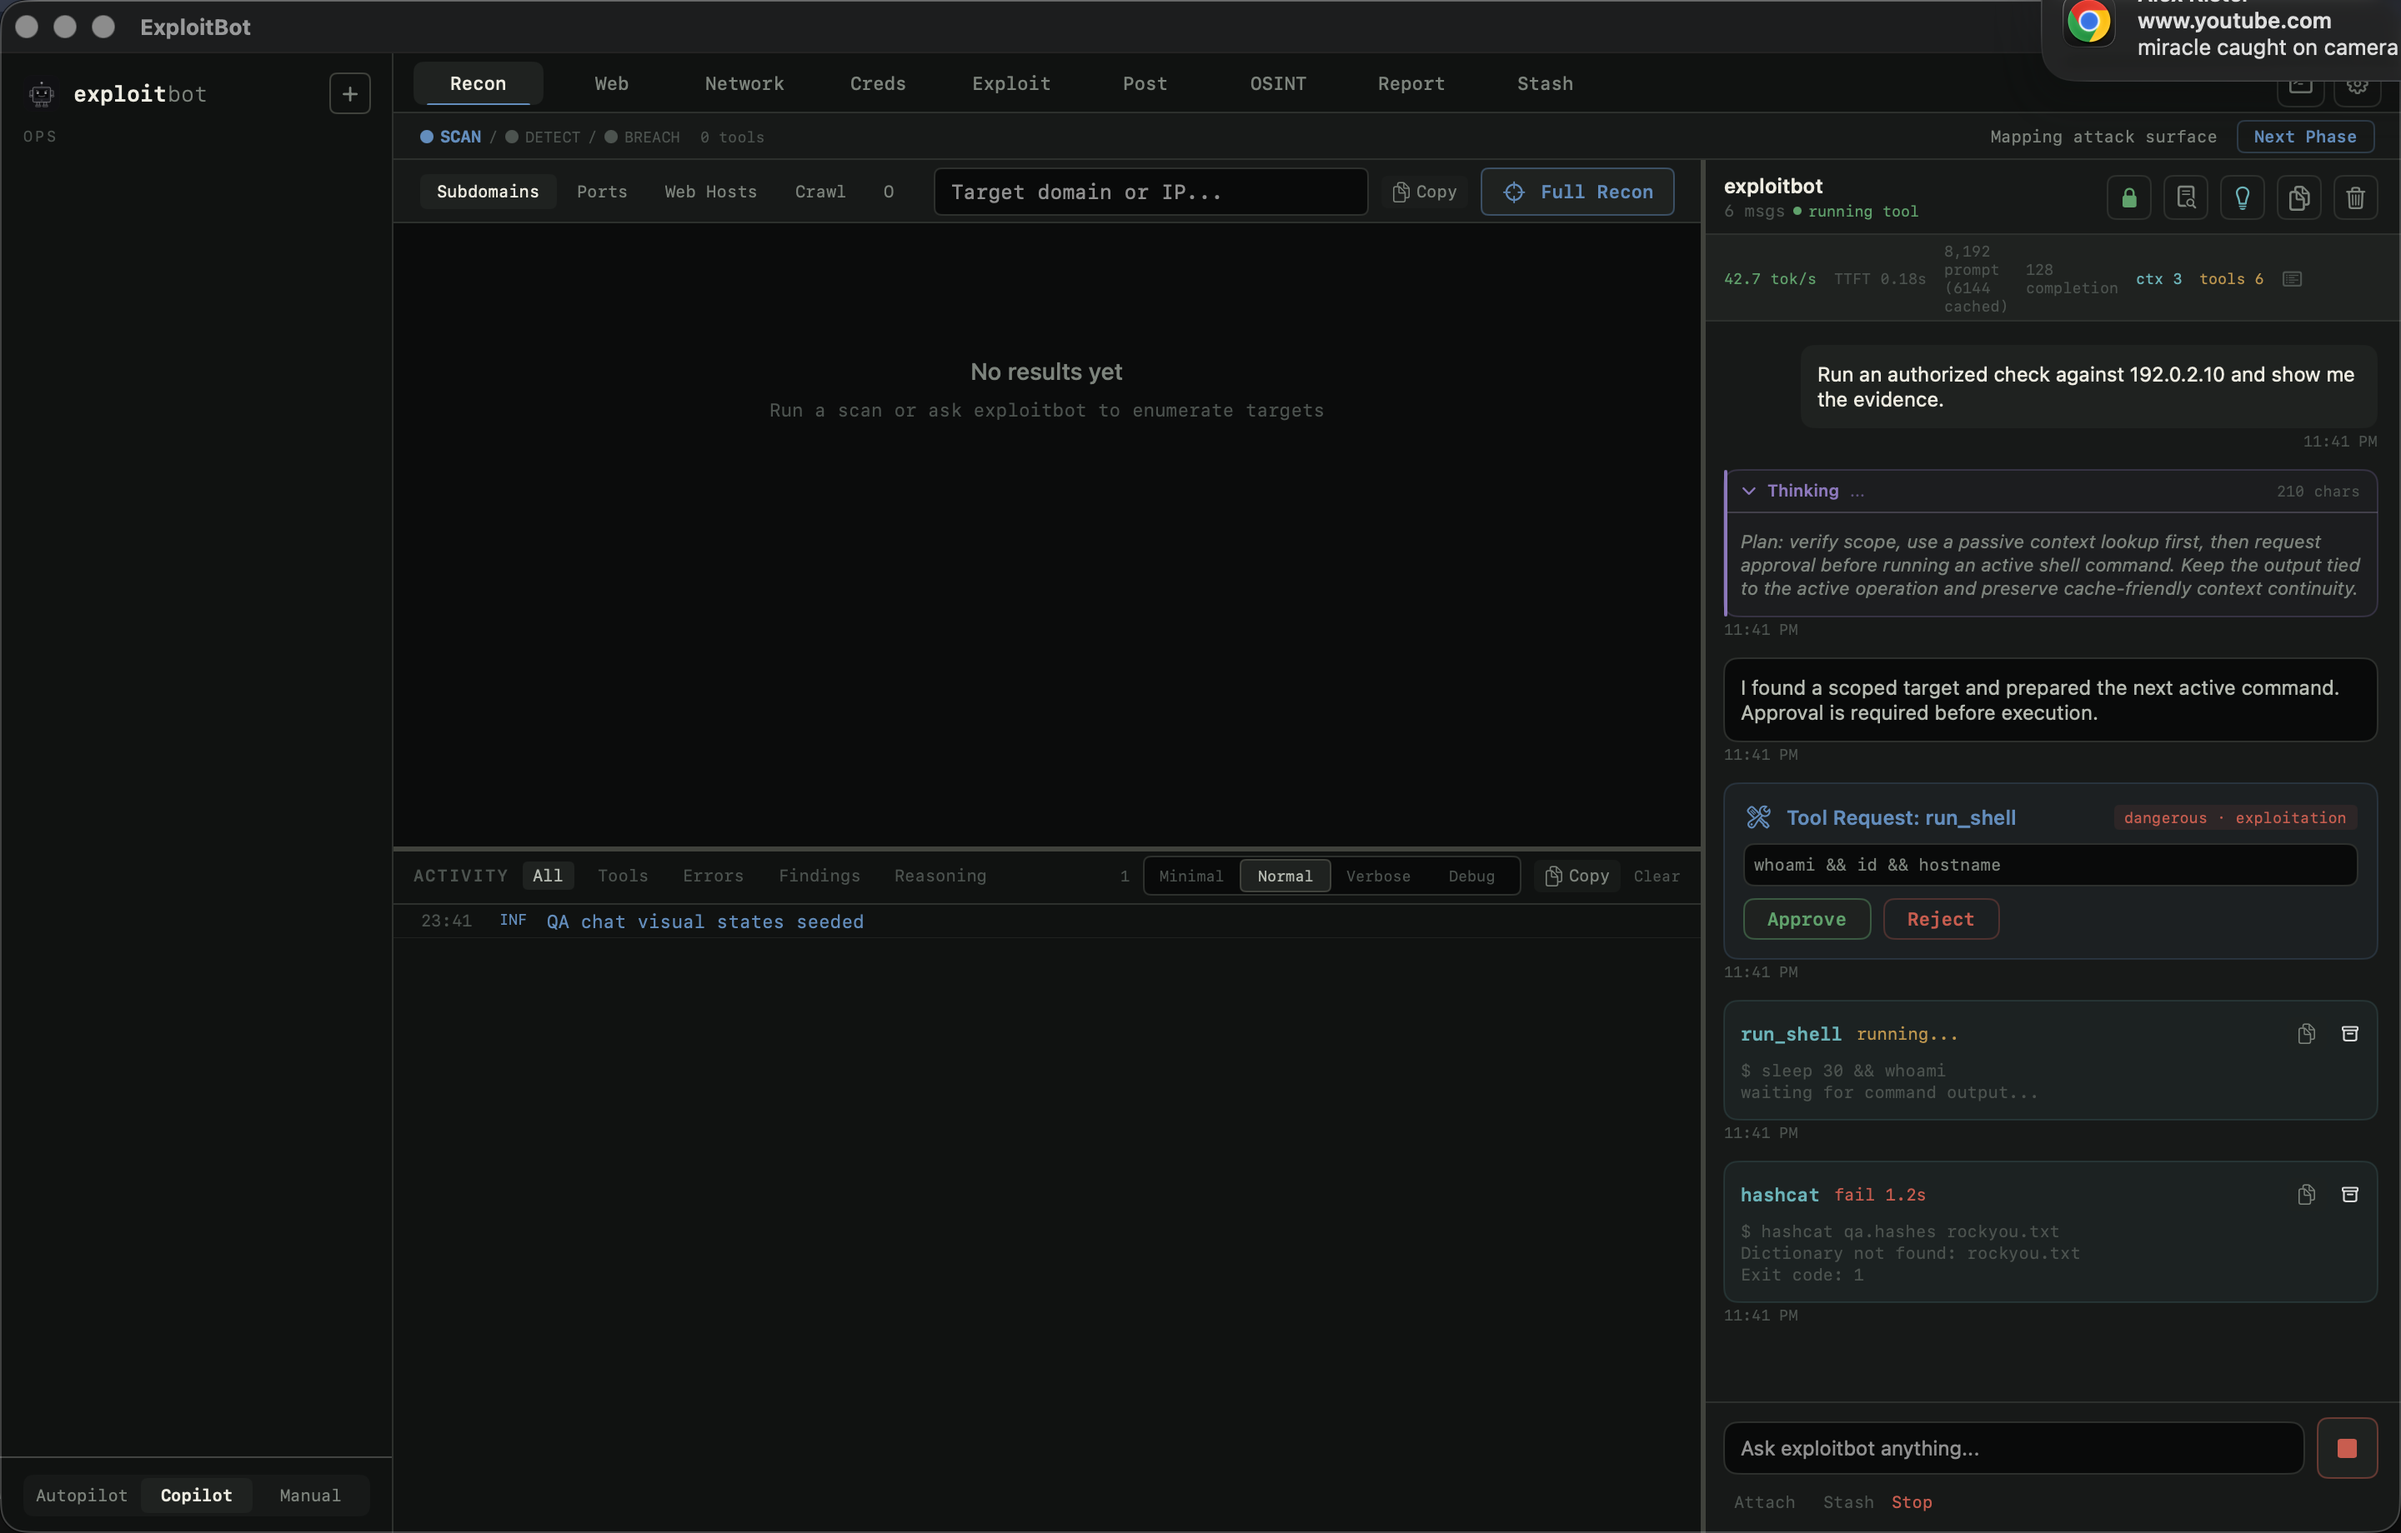
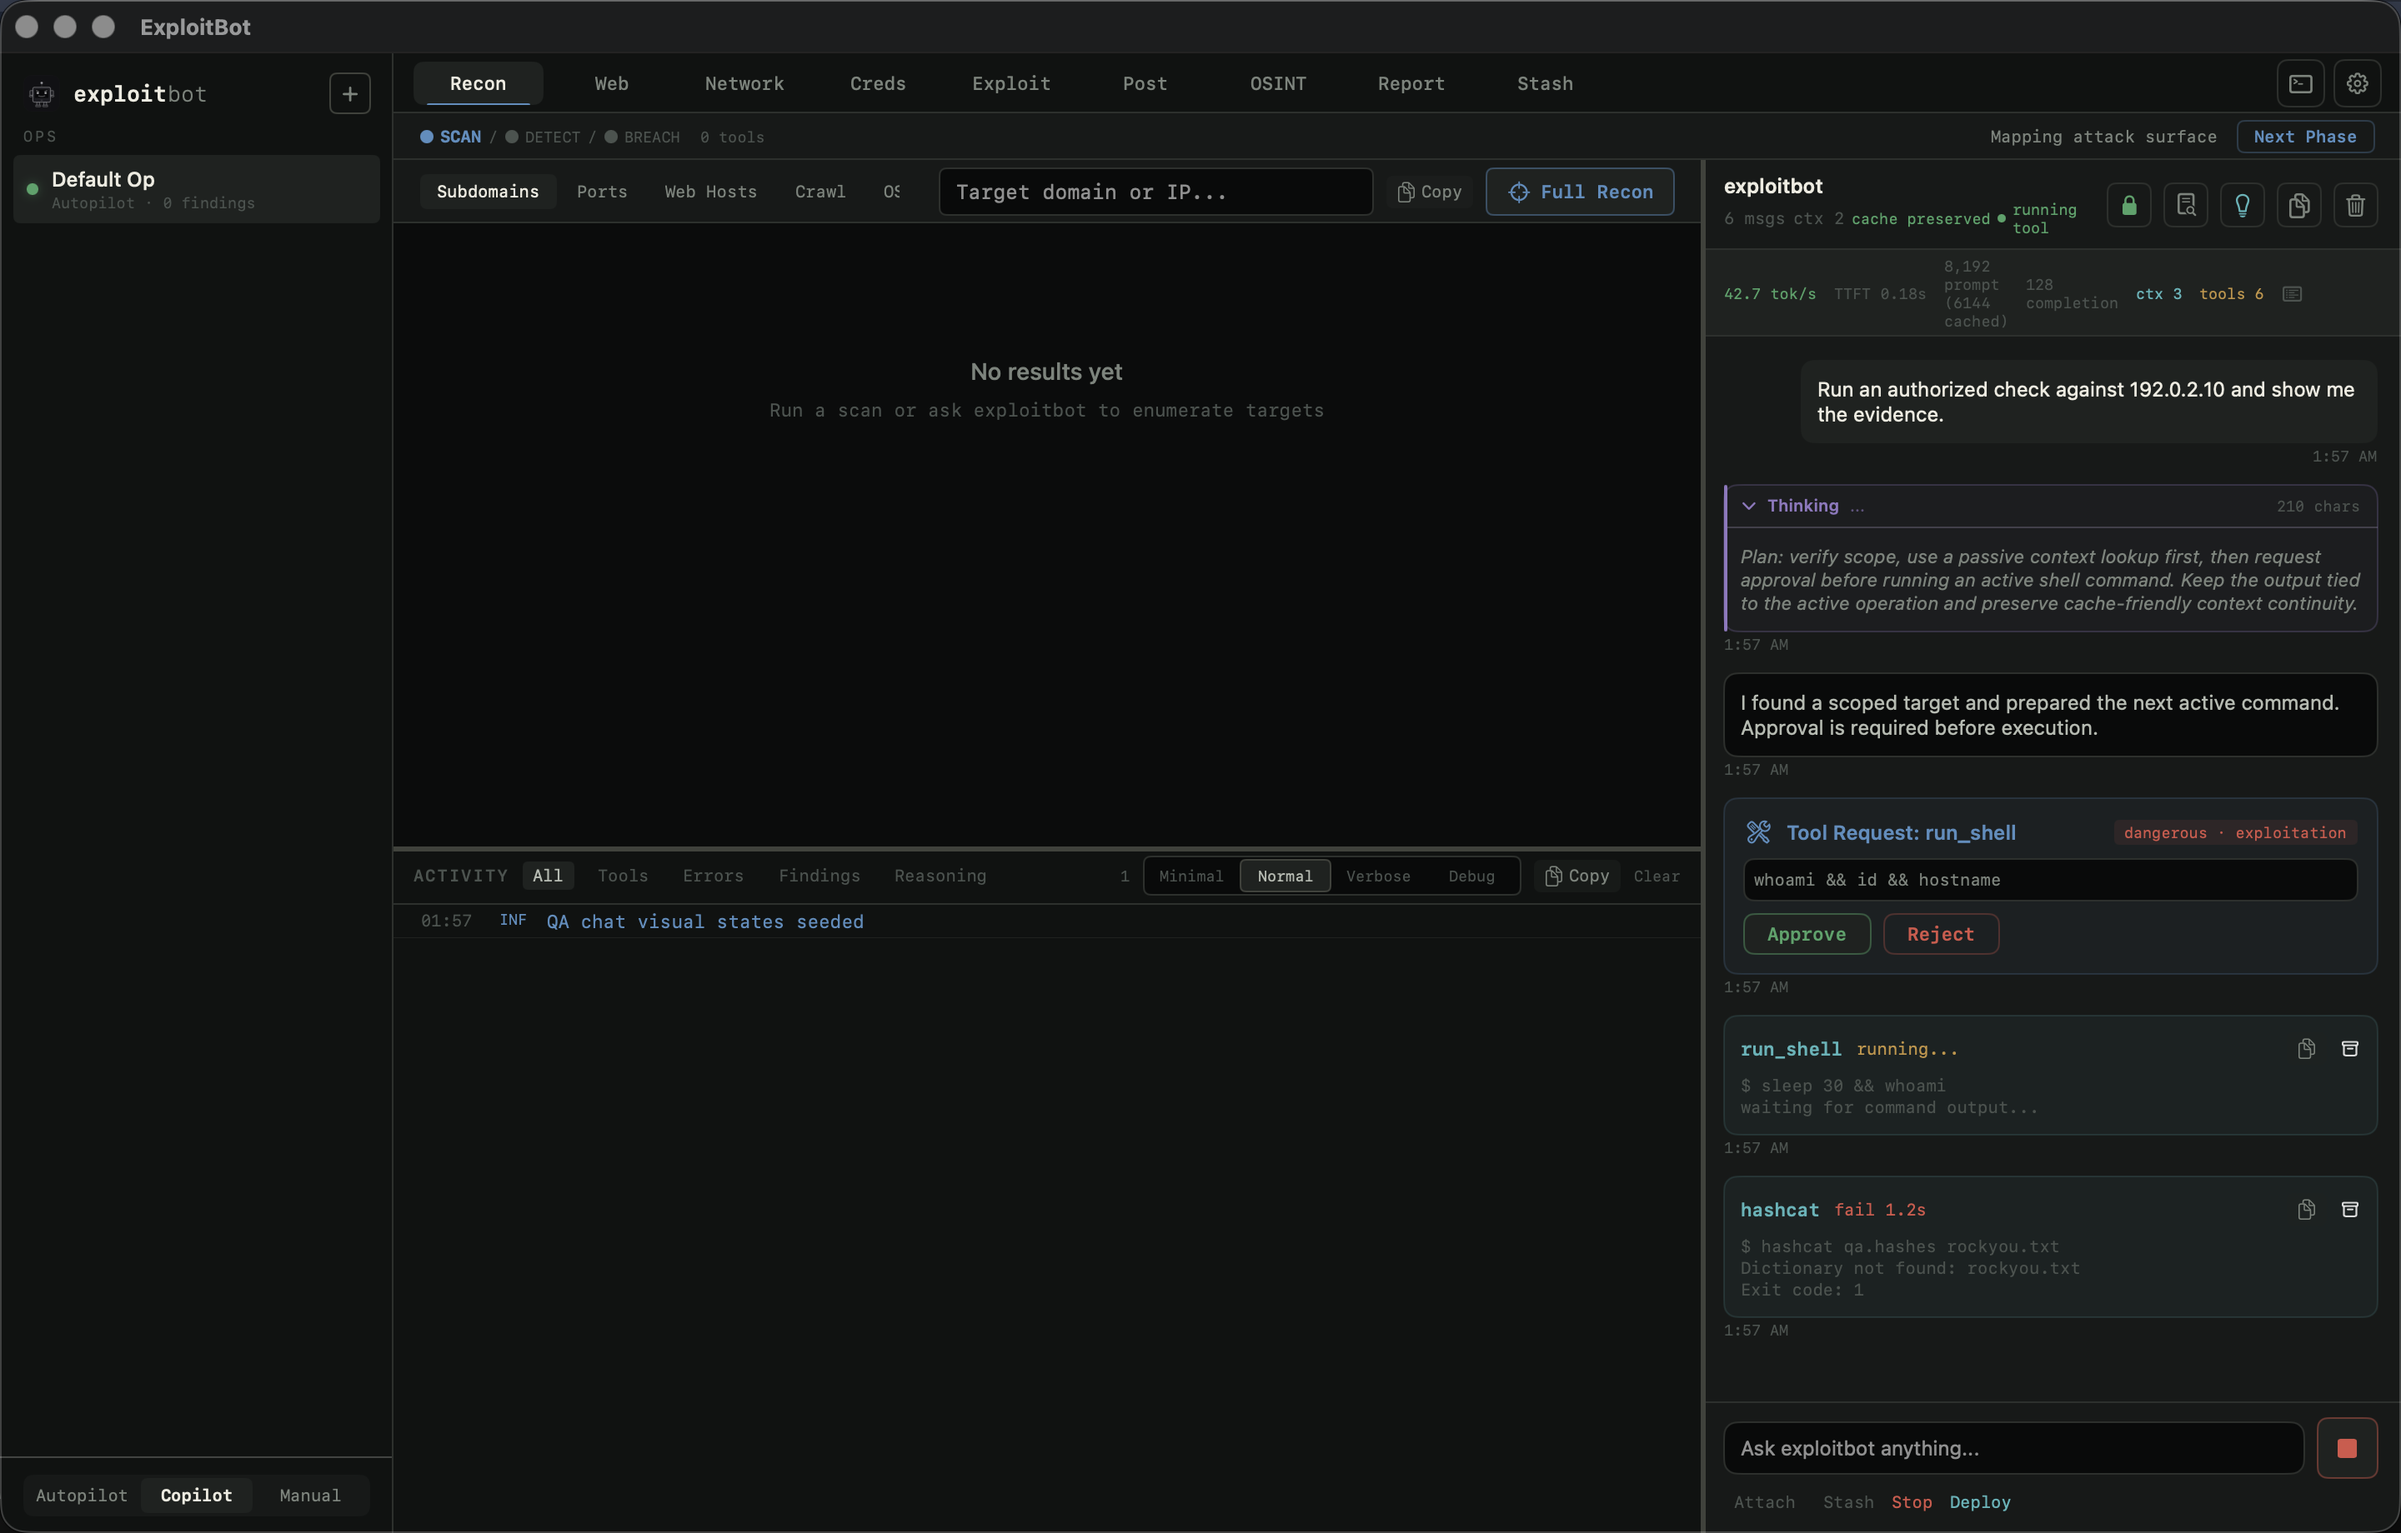
app: show context cache status

diff --git a/ExploitBot/Sources/ExploitBot/Models/AppState.swift b/ExploitBot/Sources/ExploitBot/Models/AppState.swift
@@ -406,8 +406,18 @@ svc-backup:CorrectHorseBatteryStaple
             state.chatService.lastContextSummary = "## Dynamic Context Catalogue\nPolicy: selected 3 of 12 indexed items for phase Scan, tab recon.\nSelected snippets:\n- [asset.port] 192.0.2.10:80/tcp: open http Apache\n- [finding] HIGH Apache path traversal: CVE-2021-41773\n- [stash.note] operator note: verify safely"
             state.chatService.lastContextSnippetCount = 3
             state.chatService.lastToolSchemaNames = ["search_context", "search_cve", "lookup_cve", "run_shell", "nmap", "httpx"]
+            state.chatService.contextWindowGeneration = 2
             state.chatService.interactionMode = .copilot
             state.interactionMode = .copilot
+            state.engineConfig.prefixCache = true
+            state.engineConfig.diskCache = true
+            state.engineConfig.pagedCache = true
+            state.engineConfig.blockDiskCache = true
+            state.engineConfig.kvCacheQuantization = "turboquant-q4"
+            state.engineConfig.useModelGenerationDefaults = true
+            state.engineManager.isRunning = true
+            state.engineManager.healthStatus = "running"
+            state.engineManager.cacheStats = EngineCacheStats(cachePayload: Self.qaCacheStatsPayload())
             state.activityFeed.logInfo("QA chat visual states seeded")
             return "{\"ok\":true}"
         case ("POST", "/qa/seed-chat-request-audit-visual"):

diff --git a/ExploitBot/Sources/ExploitBot/Views/Chat/ChatPanelView.swift b/ExploitBot/Sources/ExploitBot/Views/Chat/ChatPanelView.swift
@@ -43,6 +43,14 @@ struct ChatPanelView: View {
                         Text("\(chatService.messages.count) msgs")
                             .font(.mono10)
                             .foregroundColor(.textDim)
+                        Text("ctx \(chatService.contextWindowGeneration)")
+                            .font(.mono10)
+                            .foregroundColor(.textDim)
+                        if engineManager.isRunning, engineManager.cacheStats?.turboQuantEnabled == true {
+                            Text("cache preserved")
+                                .font(.mono9)
+                                .foregroundColor(.accentGreen)
+                        }
                         if chatService.isWorking {
                             Circle()
                                 .fill(Color.accentGreen)

diff --git a/scripts/visual-chat-proof.py b/scripts/visual-chat-proof.py
@@ -85,6 +85,13 @@ def assert_seeded_chat_state() -> None:
     request_context = state.get("requestContext") or {}
     if request_context.get("contextSnippetCount") != 3 or request_context.get("toolSchemaCount") != 6:
         raise AssertionError(f"expected visible request context counters in seeded chat state: {state}")
+    context_window = state.get("contextWindow") or {}
+    if context_window.get("generation") != 2:
+        raise AssertionError(f"expected visible context-window generation in seeded chat state: {state}")
+    if context_window.get("engineSessionPreserved") is not True:
+        raise AssertionError(f"expected preserved engine session in seeded chat state: {state}")
+    if context_window.get("cacheResponsesMethod") != "prefix-cache-l2-turboquant":
+        raise AssertionError(f"expected cache-response marker in seeded chat state: {state}")
 
     messages = request("GET", "/messages")
     required = {
@@ -123,7 +130,7 @@ def run() -> None:
         manifest = {
             "ok": True,
             "captures": [str(target.relative_to(ROOT))],
-            "note": "Cropped macOS capture of seeded chat approval, running tool, failed tool, reasoning, token metric, context count, and exposed tool-schema count states.",
+            "note": "Cropped macOS capture of seeded chat approval, running tool, failed tool, reasoning, token metric, context generation, cache-preserved status, context count, and exposed tool-schema count states.",
         }
         (OUT_DIR / "manifest.json").write_text(json.dumps(manifest, indent=2) + "\n", encoding="utf-8")
         print("visual-chat proof passed")

diff --git a/docs/checkpoints/2026-05-22-beta-refresh-checkpoint-105.md b/docs/checkpoints/2026-05-22-beta-refresh-checkpoint-105.md
@@ -1,0 +1,40 @@
+# Checkpoint 105: Visible Context Cache Status
+
+## Scope
+
+- Surface the active context-window generation and cache-preserved state in the
+  chat panel.
+- Extend the visual proof so the seeded chat screen includes this status
+  alongside reasoning, tool execution, token, context, and tool-schema states.
+
+## Changes
+
+- Chat header now shows `ctx N` for the active visible context window.
+- When the engine is running and parsed cache stats confirm TurboQuant KV is
+  active, the header shows `cache preserved`.
+- QA chat visual seeding now sets a nonzero context generation, running engine
+  state, required cache defaults, and parsed cache stats.
+- `scripts/visual-chat-proof.py` now requires:
+  - `/state.contextWindow.generation == 2`;
+  - `/state.contextWindow.engineSessionPreserved == true`;
+  - `/state.contextWindow.cacheResponsesMethod == prefix-cache-l2-turboquant`.
+
+## Proof
+
+Command:
+
+```bash
+python3 scripts/visual-chat-proof.py
+```
+
+Result:
+
+- Refreshed screenshot:
+  `docs/visual-proofs/checkpoint-71/chat-tool-states.png`
+- Refreshed manifest:
+  `docs/visual-proofs/checkpoint-71/manifest.json`
+
+## Boundary
+
+This is visible app-state proof. It does not claim a real-model cross-run
+block-L2 replay or true Qwen hybrid async rederive execution.

diff --git a/docs/app-system-review-2026-05-21.md b/docs/app-system-review-2026-05-21.md
@@ -362,6 +362,8 @@ Automated no-model gates:
     without changing model or cache defaults;
   - proves `/state.contextWindow` increments the visible context generation and
     reports the preserved prefix-cache/L2/TurboQuant cache-response path;
+  - proves the chat header surfaces that context generation and cache-preserved
+    state in the visual chat screenshot;
   - proves `search_cve` tool calls execute under autopilot;
   - proves manual mode converts tool calls into suggestions;
   - proves copilot mode pauses for approval and executes after approval.
@@ -456,6 +458,9 @@ Real-model gates:
   block L2, TurboQuant Q4, model-folder generation-default flags, and parsed
   engine cache stats. `/state.contextWindow` exposes the context generation and
   `prefix-cache-l2-turboquant` response method marker.
+- Chat-panel visual context/cache status is covered by
+  `scripts/visual-chat-proof.py`, which seeds a running cache-ready engine state
+  and captures the `ctx N` plus `cache preserved` header indicators.
 - Parsed engine cache runtime counters are exposed through
   `/state.engineCacheStats` and covered by `scripts/cache-stats-state-proof.py`
   plus `scripts/live-cache-stats-ui-proof.py` for TurboQuant, prefix-cache

diff --git a/docs/engine-migration-prep-2026-05-21.md b/docs/engine-migration-prep-2026-05-21.md
@@ -576,6 +576,12 @@ Do not enable MTP from metadata alone. Runtime activation must require config su
   messages, request-context preview, and chat-local token counters without
   changing engine config or parsed cache stats. Proof artifact:
   `docs/live-proofs/checkpoint-104-context-window-cache-proof.json`.
+- Checkpoint 105: Surfaced the context/cache state in the chat panel. The chat
+  header now shows `ctx N` and, when the running engine reports TurboQuant cache
+  stats, `cache preserved`. `scripts/visual-chat-proof.py` seeds this running
+  cache-ready state, asserts `/state.contextWindow` generation/session/cache
+  markers, and refreshes
+  `docs/visual-proofs/checkpoint-71/chat-tool-states.png`.
 
 ## Known Risk Areas
 

diff --git a/docs/app-flow-inventory-2026-05-21.md b/docs/app-flow-inventory-2026-05-21.md
@@ -391,6 +391,10 @@ Required future proof gates:
   increments `/state.contextWindow.generation`, clears visible chat state and
   chat-local token counters, and preserves the engine config plus parsed cache
   stats for the prefix-cache/L2/TurboQuant response path.
+- Visible context/cache header status: covered by
+  `scripts/visual-chat-proof.py`, which captures the chat header showing the
+  active context generation and cache-preserved status next to live tool,
+  reasoning, token, context, and tool-schema states.
 - Quantized block L2 proof: covered by
   `docs/live-proofs/checkpoint-77-block-l2-quantized-proof.json`, which proves
   real MLX safetensors write/read plus full-block disk promotion for
